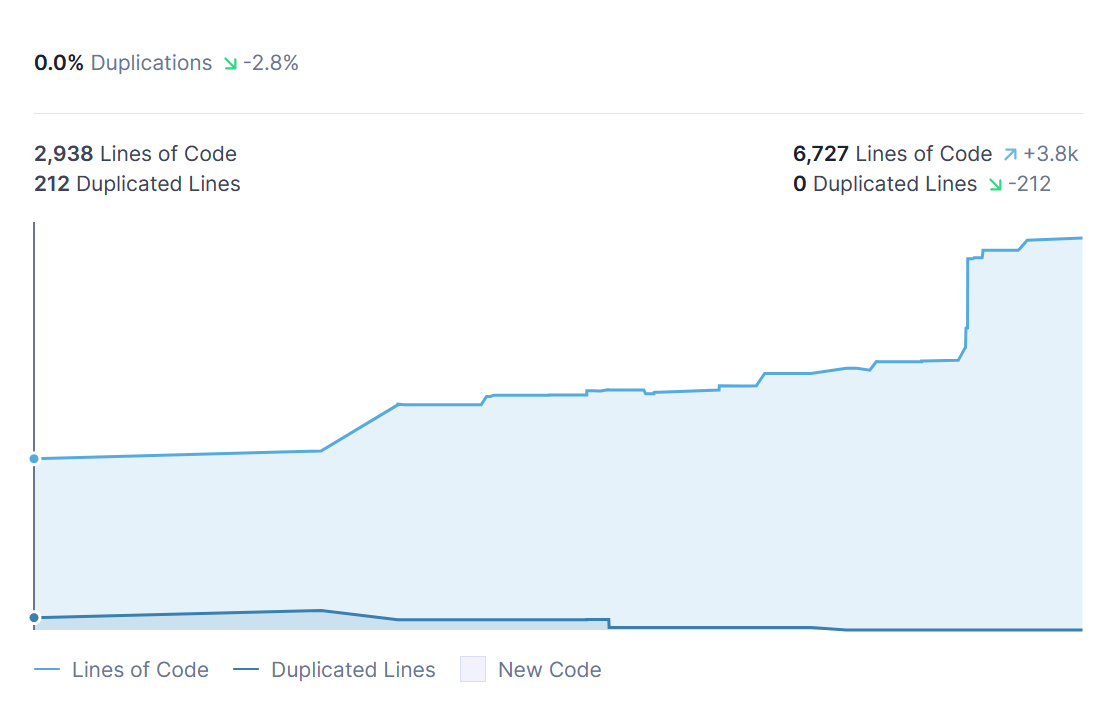
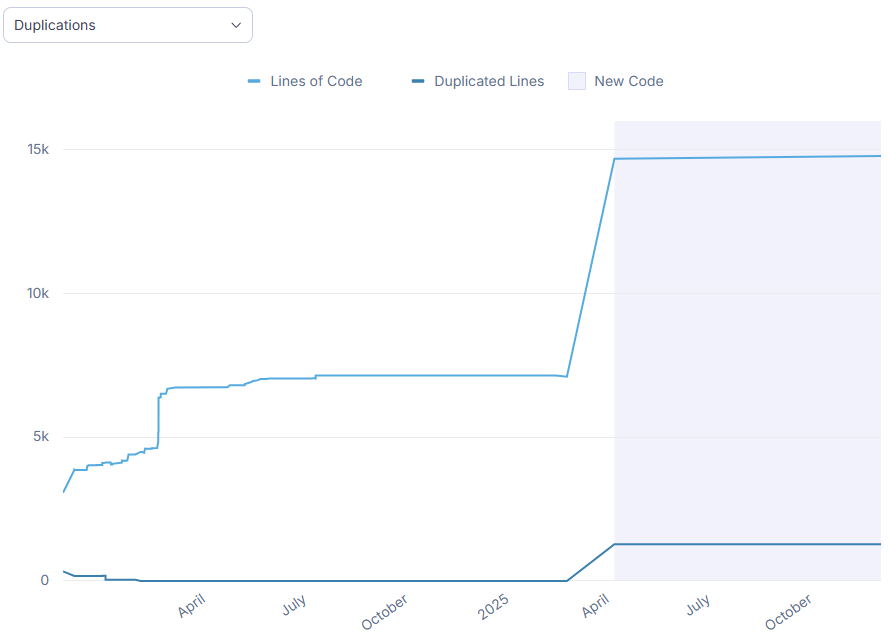
update techref based on feedback WdL

diff --git a/docs/chapters/testing.tex b/docs/chapters/testing.tex
@@ -522,11 +522,19 @@ TOTAL                                                4619    441    90%
 The quality of the \dfastmi source code and the code coverage is tracked by \href{https://sonarcloud.io/project/overview?id=Deltares_D-FAST_Morphological_Impact}{SonarCloud} and \href{https://sigrid-says.com/deltares/dfast-mi/-/overview}{Sigrid}.
 
 \subsection{SonarCloud reports}
-SonarCloud doesn't provide the code duplication graph anymore, but the duplication in the \dfmi code is still reported to be 0.0\% although there is about 12\% code duplication in the coding of the tests.
-The code coverage data is no longer passed to SonarCloud, but we have seen above that the coverage is still about 90\%.
-SonarCloud reports a major jump in the code issues in May 2025.
-Since the code wasn't changed during that period, it must be caused by an update to the SonarCloud analysis.
-See \autoref{fig:code_issues}.
+SonarCloud reports a major jump in the code duplication and issues in May 2025.
+The code wasn't changed during that period; it is due to an update to the SonarCloud analysis ... as is obvious from the large jump in the number of lines of code at the same time.
+Before that time, SonarCloud only analysed the code lines of the \dfmi program; now it also analyses the lines of testing code.
+That is where the code duplication is located (see the listed files in \autoref{fig:code_duplication}, and the remark at the bottom that there are 115 files with 0\% duplication).
+This is also where 90\% of the reported code issues are; see \autoref{fig:code_issues}.
+
+\begin{figure}
+\center
+\includegraphics[width=\textwidth]{figures/code_duplication.png}
+\includegraphics[width=\textwidth]{figures/code_duplication_details.png}
+\caption{Code duplication reported by SonarCloud}
+\label{fig:code_duplication}
+\end{figure}
 
 \begin{figure}
 \center

diff --git a/docs/chapters/backward_compatibility.tex b/docs/chapters/backward_compatibility.tex
@@ -927,7 +927,7 @@ The yearly sediment load of the river determines the period in which the
 equilibrium can be reached.
 
 
-This is version 3.0.0.
+This is version *.*.*.
 
 Confirm using "y" ...
 \end{Verbatim}
